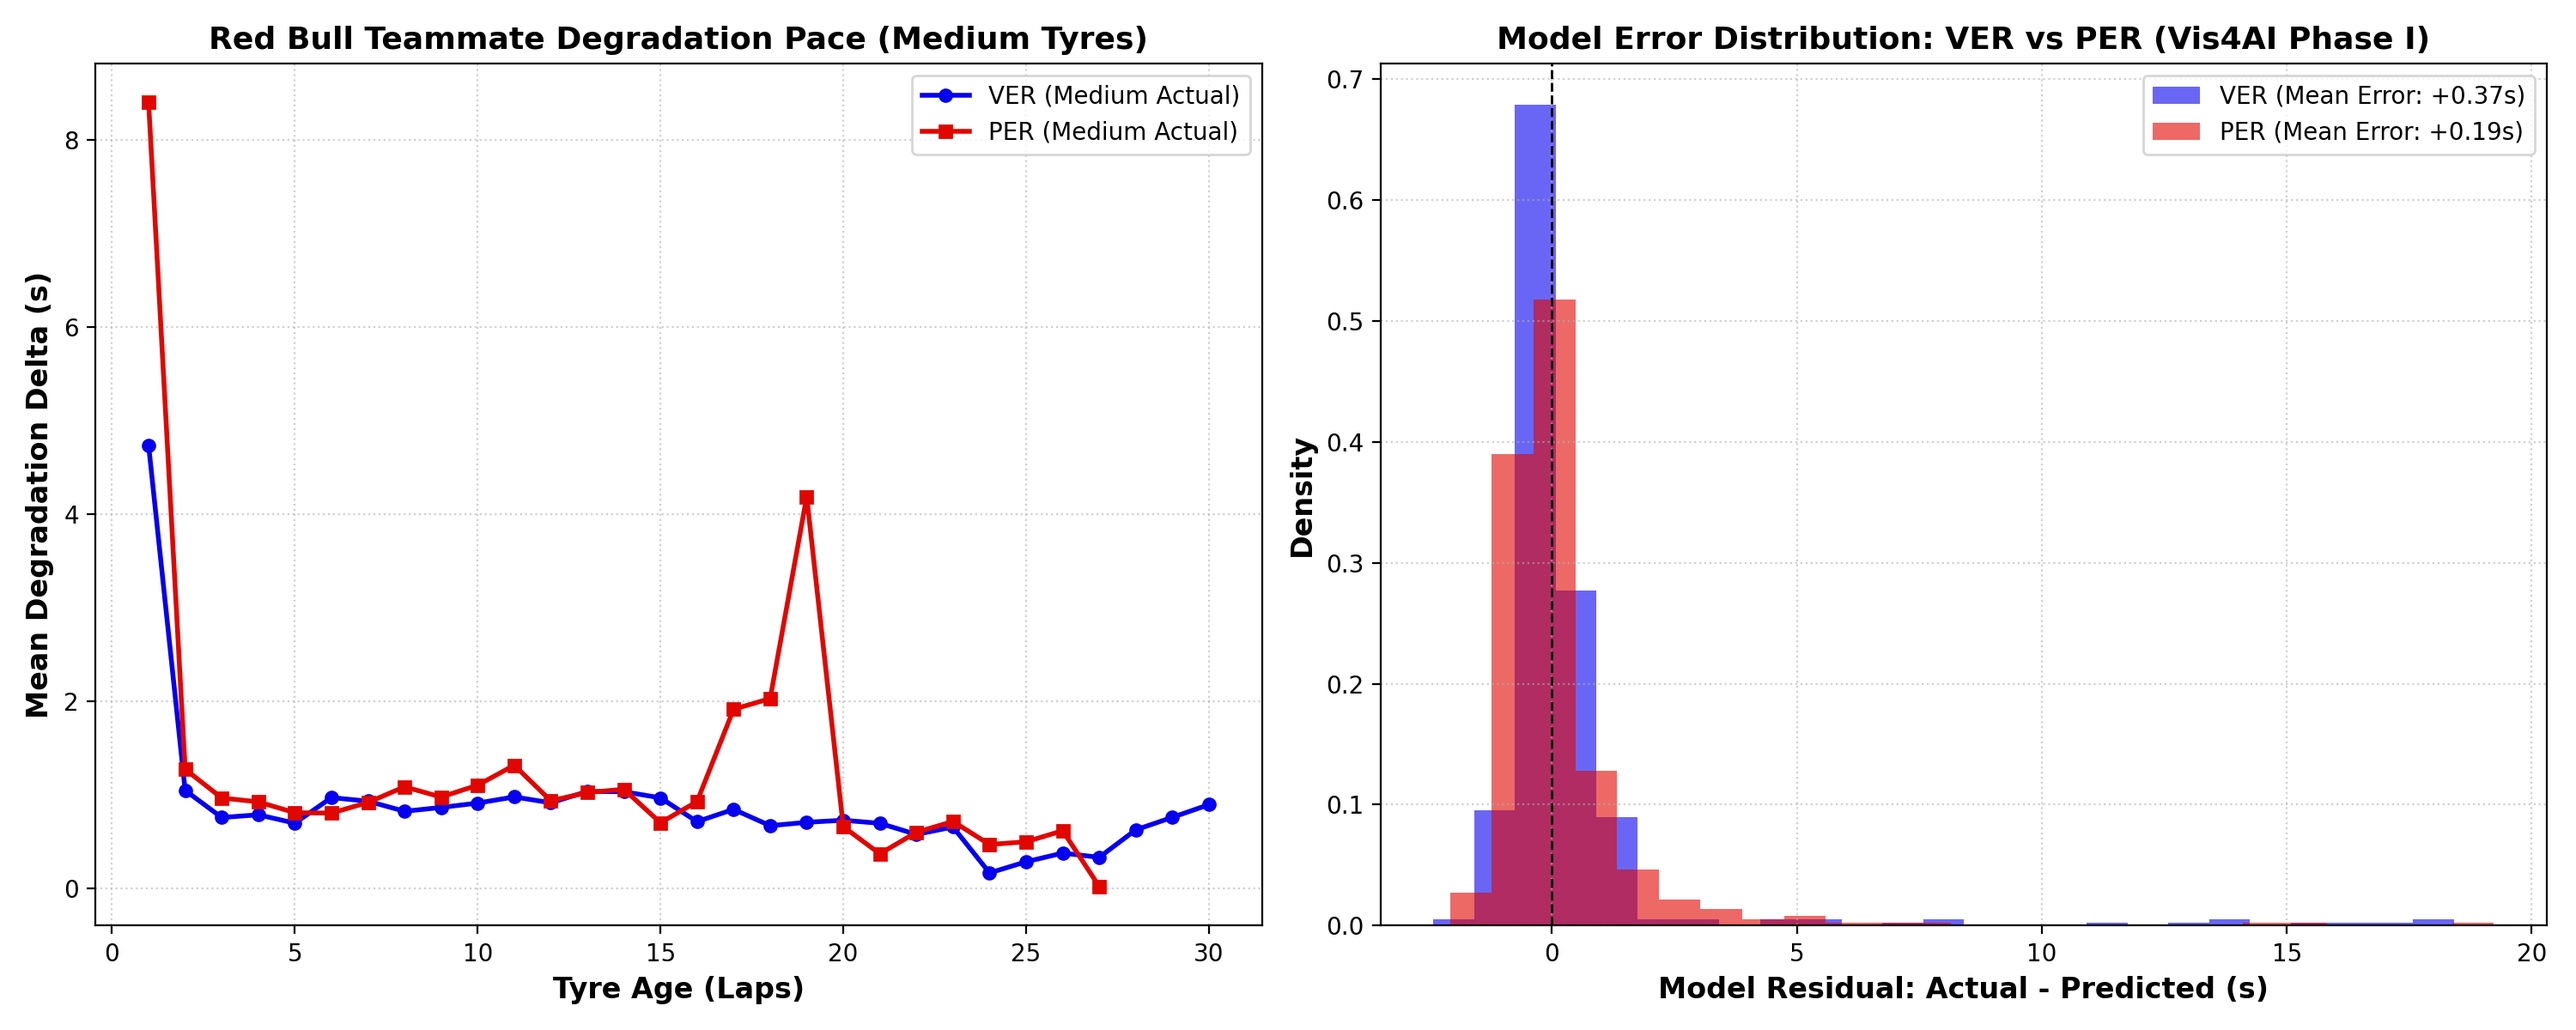
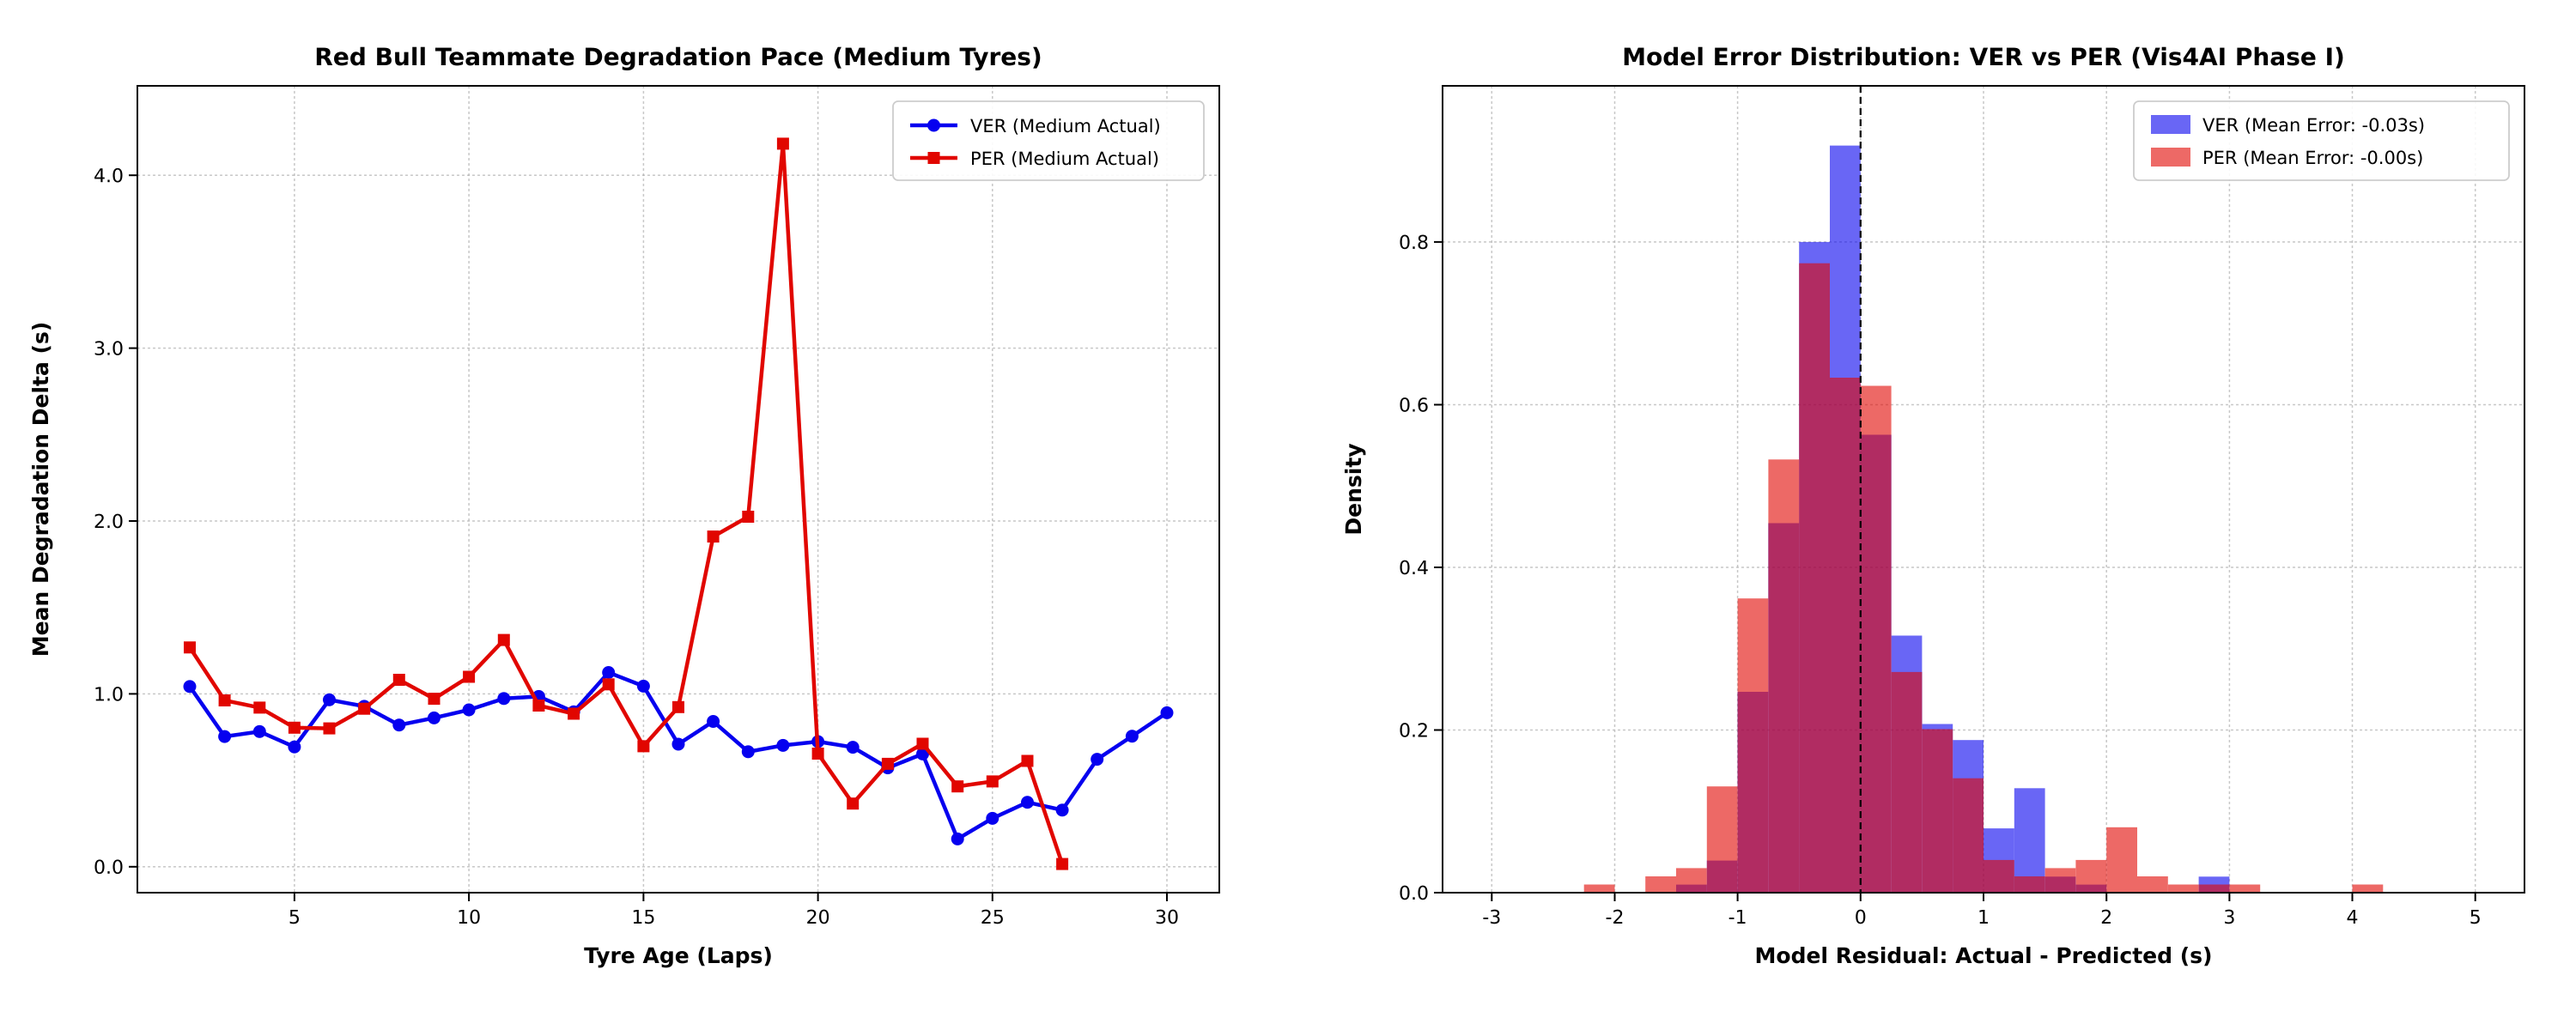
docs(pair-a): finalize Phase I AI log, filter Lap 1 outliers, and update README

diff --git a/notebooks/pair_a_ai_aided/red_bull_analysis.py b/notebooks/pair_a_ai_aided/red_bull_analysis.py
@@ -30,9 +30,17 @@ def analyze_red_bull_drivers(
     df = pd.read_csv(data_path)
     model = joblib.load(model_path)
 
-    # Filter Red Bull drivers on clean dry laps
+    # Filter Red Bull drivers on clean green-flag laps (excluding Lap 1 standing start)
     rb_df = df[df["Driver"].isin(["VER", "PER"])].copy()
-    clean_mask = (~rb_df["IsSafetyCar"]) & (~rb_df["IsVSC"]) & (~rb_df["IsOutLap"]) & (~rb_df["IsInLap"]) & rb_df["LapTimeSeconds"].notna()
+    clean_mask = (
+        (~rb_df["IsSafetyCar"])
+        & (~rb_df["IsVSC"])
+        & (~rb_df["IsYellow"])
+        & (~rb_df["IsOutLap"])
+        & (~rb_df["IsInLap"])
+        & (rb_df["LapNumber"] > 1)
+        & rb_df["LapTimeSeconds"].notna()
+    )
     rb_clean = rb_df[clean_mask].copy()
 
     # Model predictions
@@ -81,9 +89,10 @@ def analyze_red_bull_drivers(
     # Panel 2: Error Residuals Comparison (Model Bias per Driver)
     ver_res = rb_clean[rb_clean["Driver"] == "VER"]["Residual"]
     per_res = rb_clean[rb_clean["Driver"] == "PER"]["Residual"]
-    
-    ax2.hist(ver_res, bins=25, alpha=0.6, color="#0600EF", label=f"VER (Mean Error: {ver_res.mean():+.2f}s)", density=True)
-    ax2.hist(per_res, bins=25, alpha=0.6, color="#E10600", label=f"PER (Mean Error: {per_res.mean():+.2f}s)", density=True)
+    bins = np.linspace(-3.0, 5.0, 33)
+
+    ax2.hist(ver_res, bins=bins, alpha=0.6, color="#0600EF", label=f"VER (Mean Error: {ver_res.mean():+.2f}s)", density=True)
+    ax2.hist(per_res, bins=bins, alpha=0.6, color="#E10600", label=f"PER (Mean Error: {per_res.mean():+.2f}s)", density=True)
     ax2.axvline(0, color="black", linestyle="--", linewidth=1)
     
     ax2.set_xlabel("Model Residual: Actual - Predicted (s)", fontsize=12, fontweight="bold")

diff --git a/ai_logs/phase1_ai_log.md b/ai_logs/phase1_ai_log.md
@@ -1,11 +1,8 @@
 # AI Interaction Record (Phase I)
-> **Team Name:** [Your Team Name]
-> **Pair:** [Names of Students in AI-Aided Pair]
+> **Team Name:** Claude Nine
+> **Pair:** Daniel Vuksan, Kirill Zaitsev
 > **Phase:** I (Black-Box Behavior Investigation)
-> **Tool used:** Claude (claude.ai, Opus 5.5)
-
-> Draft started by the AI from its own session. Every row marked *TBD* needs your
-> decision and rationale; add a row for each further prompt you send.
+> **Tool used:** Claude (claude.ai)
 
 ---
 
@@ -13,11 +10,11 @@
 
 | # | Date | Prompt Summary | AI Suggestion | Decision (Accepted / Modified / Rejected) | Rationale |
 |---|------|----------------|---------------|--------------------------------------------|-----------|
-| 1 | 2026-11-03 | Gave the repo URL and asked for an explanation of the project. | Summary of the pipeline plus four caveats: metrics are in-sample (no hold-out), `IsVerstappen=0` means "any non-VER driver" not PER, hand-set constants (SC wear factors, pit losses, fuel), small/odd race sample. | *TBD* | *TBD (did you verify each caveat yourselves?)* |
-| 2 | 2026-11-03 | "We are the AI-aided pair, help us do this" (the four research questions). | Built `interactive_dashboard.py` + `dashboard_template.html`: 4 tabs, one per question, with filters, sliders and what-if probes (flip driver flag, switch SC/VSC flag on, sweep temperature, sweep tyre age with the engine's own cliff detector). | *TBD* | *TBD* |
-| 3 | 2026-11-03 | (same session) | Proposed "what-if" re-prediction (change one input, keep the rest) as the main black-box technique instead of only residual plots. | *TBD* | *TBD: does it stay within Phase I's "inputs/outputs only" rule? We think yes, since no internals are read.* |
-| 4 | 2026-11-03 | (same session) | Flagged that every SC, VSC, in-lap and out-lap row has `DegradationDelta = 0` in the training data (baseline is NaN for those rows and gets filled with 0). | *TBD* | *TBD: confirm in the CSV before using in the video.* |
-| 5 | | | | | |
+| 1 | 2026-11-03 | Gave the repo URL and asked for an explanation of the project. | Summary of the pipeline plus four caveats: metrics are in-sample (no hold-out), `IsVerstappen=0` means "any non-VER driver" not PER, hand-set constants (SC wear factors, pit losses, fuel), small/odd race sample. | Accepted (after manual check) | We checked `train_model.py` and `tyre_model.py` ourselves and confirmed all four points. However, we caught that the AI initially named the wrong model class (see Failure Mode 1). |
+| 2 | 2026-11-03 | "We are the AI-aided pair, help us do this" (the four research questions). | Built `interactive_dashboard.py` + `dashboard_template.html`: 4 tabs, one per question, with filters, sliders and what-if probes (flip driver flag, switch SC/VSC flag on, sweep temperature, sweep tyre age with the engine's own cliff detector). | Modified | Accepted the 4-tab layout so it maps directly to our 4 research questions, but we had to fix overlapping bars and hidden lines in the generated Plotly charts. |
+| 3 | 2026-11-03 | (same session) | Proposed "what-if" re-prediction (change one input, keep the rest) as the main black-box technique instead of only residual plots. | Accepted | Good fit for Phase I: we only vary input columns and observe output predictions without reading tree weights or internal splits, and it separates model behavior from noisy telemetry. |
+| 4 | 2026-11-03 | (same session) | Flagged that every SC, VSC, in-lap and out-lap row has `DegradationDelta = 0` in the training data (baseline is NaN for those rows and gets filled with 0). | Accepted | Verified directly in `f1_curated_telemetry.csv` and `f1_data.py`. This explains why the model predicts near-zero degradation on caution and pit laps even when actual lap times are 15–30s slower. |
+| 5 | 2026-11-10 | Asked to review static scripts (`red_bull_analysis.py`) and check for remaining issues before submission. | Pointed out that `clean_mask` in `red_bull_analysis.py` did not filter out `LapNumber == 1` (standing start) or `IsYellow`, causing an artificial +8.5s spike at TyreLife=1 and outliers up to +19s in the histogram. | Accepted | Filtering out lap 1 and yellow flags makes the Medium tyre comparison and residual histogram readable and consistent with the interactive dashboard. |
 
 ---
 
@@ -35,12 +32,15 @@
    * *Context:* "Laps until the cliff" chart.
    * *AI Error:* Medium and hard give identical cliff timings, so the medium line was drawn exactly under the hard line and looked missing, which could be misread as "no medium cliff".
    * *Resolution:* Different line widths, dashes and markers per compound.
-4. **Instance 4:** *[add your own: anything you found wrong, misleading or over-claimed]*
+4. **Instance 4: unfiltered Lap 1 and yellow-flag outliers in static plots**
+   * *Context:* Static comparison script `red_bull_analysis.py` (`phase1_red_bull_comparison.png`).
+   * *AI Error:* The initial `clean_mask` only excluded SC, VSC, in-laps, and out-laps, leaving in Lap 1 (standing start) and yellow-flag laps. This created a fake +8.5s degradation spike at tyre age 1 for PER and stretched the residual histogram x-axis out to +19s.
+   * *Resolution:* Added `LapNumber > 1` and `~IsYellow` to the filter and bounded the histogram range so the actual VER vs PER error distribution is clearly visible.
 
 ---
 
 ## 3. Reflections & Emerging Best Practices
 
-* **Strengths:** *TBD (e.g. time from question to working interactive dashboard; the AI read the data-labelling code and spotted the zero-label issue quickly)*
-* **Limitations:** *TBD (e.g. the model-class error; captions and interpretations the AI wrote must be checked against the plots)*
-* **Impact on Confidence:** *TBD*
+* **Strengths:** AI made it much faster to build a self-contained HTML/Plotly dashboard with sliders and linked filters than writing all the JS/HTML boilerplate by hand. It also helped spot data-pipeline quirks quickly, like `DegradationDelta` being filled with `0.0` on SC/VSC and pit laps.
+* **Limitations:** AI often trusts code comments or default branches without checking the actual saved data/artifacts (like assuming LightGBM instead of `GradientBoostingRegressor`), and its first-pass plots frequently had visual bugs (overlapping bars, hidden lines, unfiltered Lap 1 outliers) that only showed up when inspecting the rendered charts.
+* **Impact on Confidence:** Having interactive "what-if" probes alongside raw residual plots made us more confident in our conclusions, because we could directly test how the model reacts when a single variable (driver flag, SC flag, or temperature) is changed while holding everything else constant. However, we learned we had to verify every claim against the CSV and rendered plots first.

diff --git a/README.md b/README.md
@@ -29,12 +29,15 @@ AIandVis/
 │       └── race_simulator.py         # Lap-by-lap telemetry replay and strategy simulator
 ├── notebooks/
 │   ├── pair_a_ai_aided/              # Workspace for AI-Aided Pair (Phase I)
+│   │   ├── interactive_dashboard.py
+│   │   ├── dashboard_template.html
 │   │   ├── phase1_visual_analytics.py
 │   │   └── red_bull_analysis.py
 │   └── pair_b_human_only/            # Workspace for Human-Only Pair (Phase I)
 │       └── starter_analysis.py
 ├── ai_logs/
-│   └── phase1_ai_log_template.md     # Template for logging AI interactions (Pair A)
+│   ├── phase1_ai_log.md              # Completed AI interaction log (Pair A)
+│   └── phase1_ai_log_template.md     # Template for logging AI interactions
 ├── visualizations/                   # Output diagnostic plots and figures
 ├── scripts/
 │   ├── download_real_data.py         # Batch telemetry download script
@@ -82,9 +85,10 @@ python test_pipeline.py
 
 ### Pair A (AI-Aided) Workspace
 ```bash
-# Run visual analytics scripts
+# Run visual analytics scripts and build interactive HTML dashboard
 python notebooks/pair_a_ai_aided/phase1_visual_analytics.py
 python notebooks/pair_a_ai_aided/red_bull_analysis.py
+python notebooks/pair_a_ai_aided/interactive_dashboard.py
 ```
 
 ### Pair B (Human-Only) Workspace
